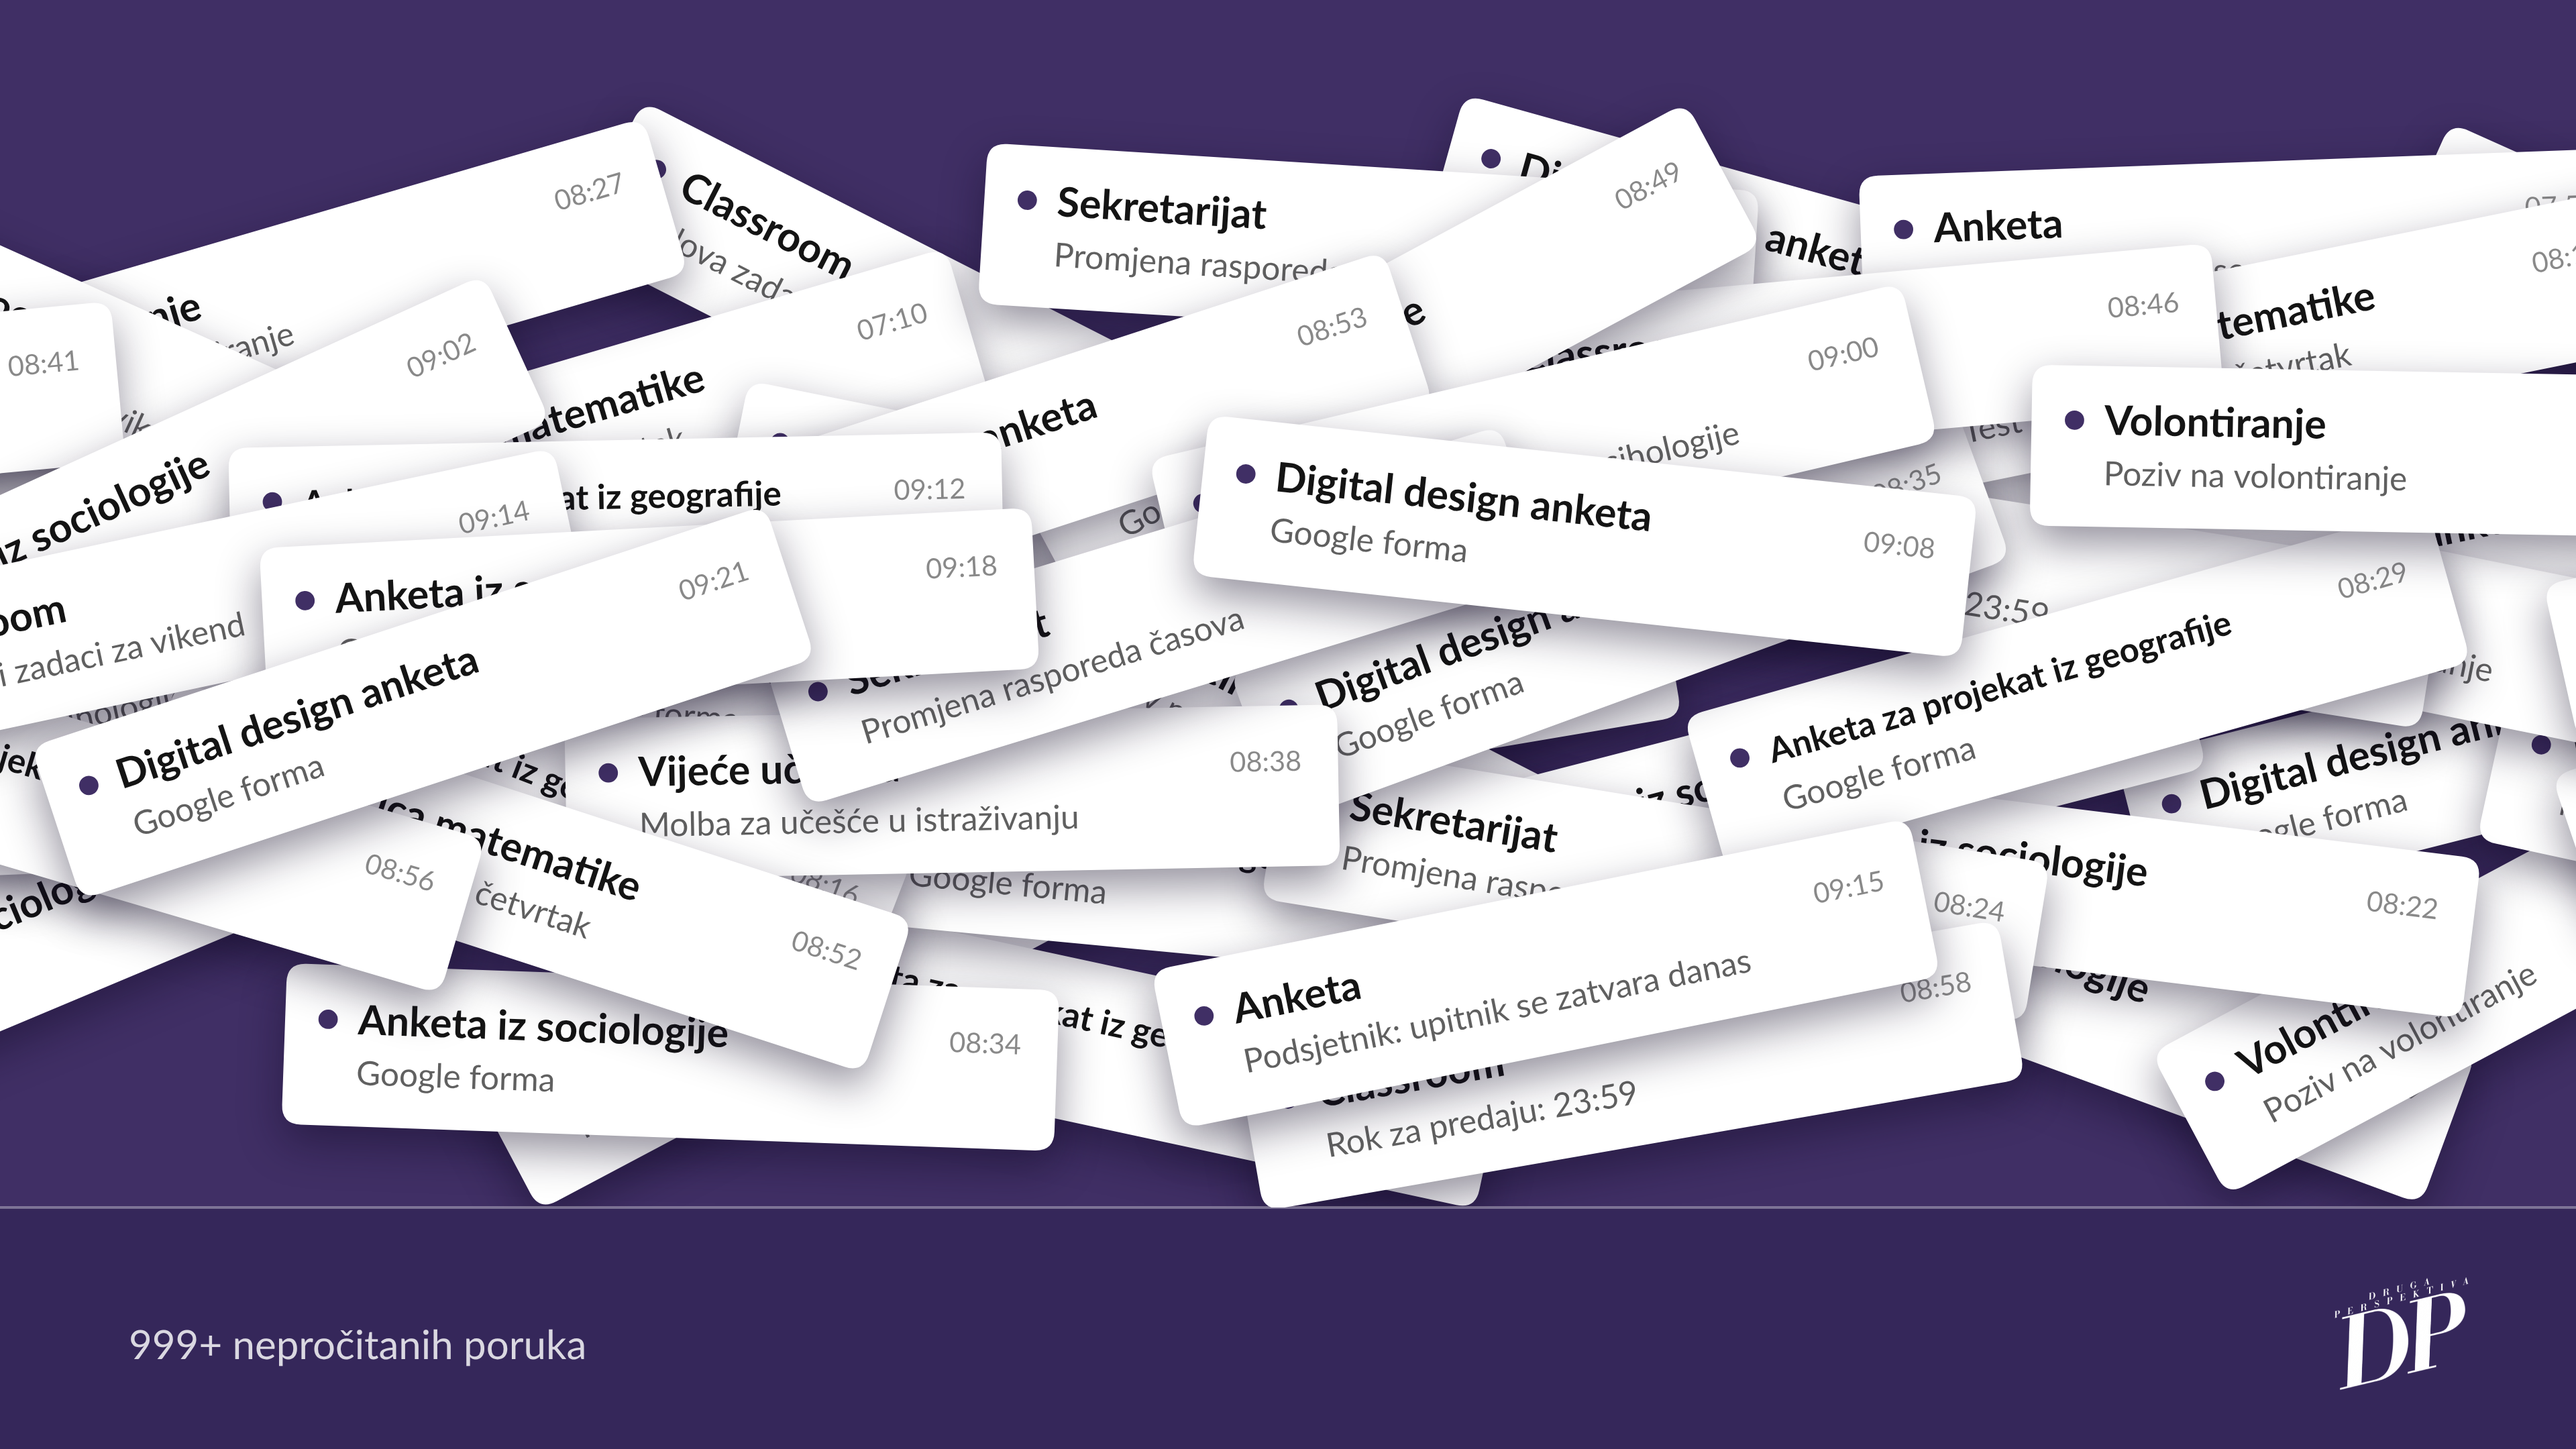
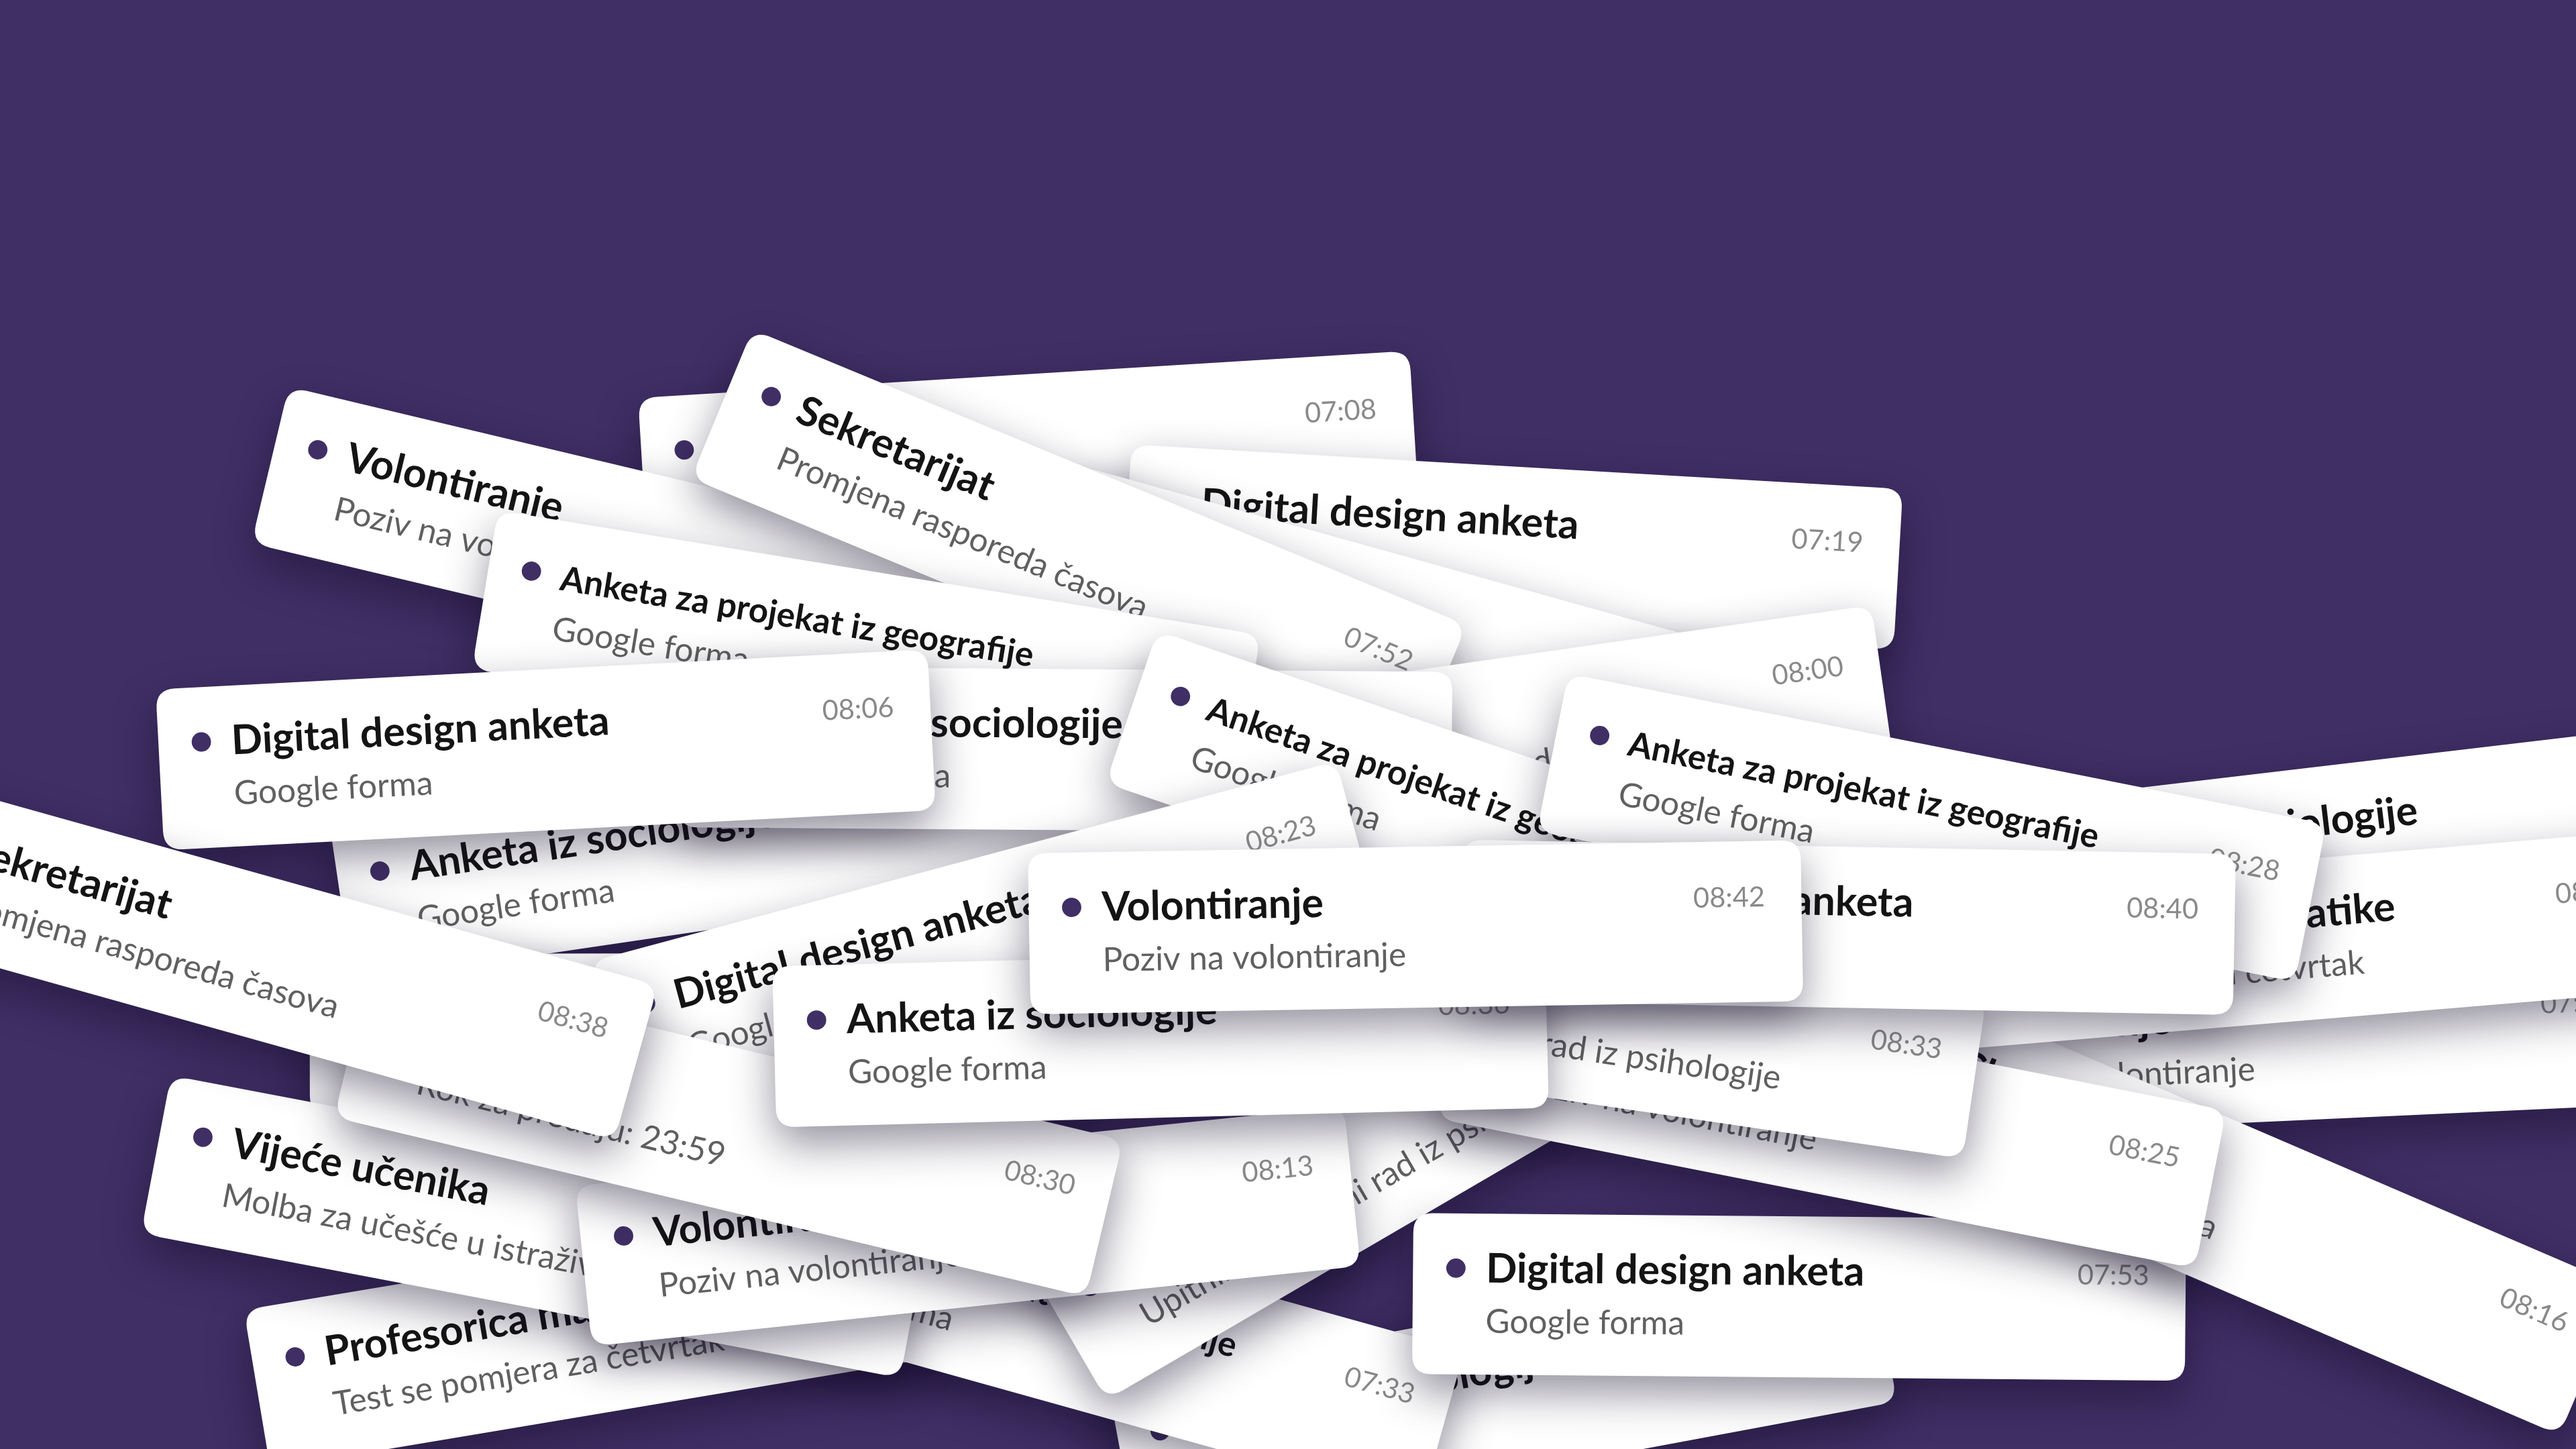
Digitalni haos 16:9: samo gomila mailova, bez podnožja i teksta
Claude-Session: https://claude.ai/code/session_01SB3ebkwCbJ77j8TgDceU8w

diff --git a/promo/email-haos/naslovna-16x9.html b/promo/email-haos/naslovna-16x9.html
@@ -22,8 +22,8 @@ canvas { position: absolute; left: 0; top: 0; width: 1920px; height: 1080px; }
 .naslov { margin-top: 30px; font-size: 100px; font-weight: 700; line-height: 1.03; letter-spacing: -0.022em; }
 .pise { margin-top: 30px; font-size: 40px; line-height: 1.3; color: rgba(255,255,255,.72); }
 .pise b { color: #fff; font-weight: 700; }
-.brojac { position: absolute; left: 96px; bottom: 58px; font-size: 30px; color: rgba(255,255,255,.82); font-variant-numeric: tabular-nums; }
-.logo { position: absolute; right: 80px; bottom: 44px; width: 100px; }
+.brojac { display: none; position: absolute; left: 96px; bottom: 58px; font-size: 30px; color: rgba(255,255,255,.82); font-variant-numeric: tabular-nums; }
+.logo { display: none; position: absolute; right: 80px; bottom: 44px; width: 100px; }
 </style>
 </head>
 <body>
@@ -44,7 +44,7 @@ canvas { position: absolute; left: 0; top: 0; width: 1920px; height: 1080px; }
 	var AUTOR = ''; // npr. 'Ime Prezime'
 	document.getElementById('pise').innerHTML = AUTOR ? 'Piše: <b>' + AUTOR + '</b>' : 'Treba li nam bolja organizacija e-mailova?';
 
-	var W = 1920, H = 1080, FPS = 30, FLOOR = 900, CEIL = 70;
+	var W = 1920, H = 1080, FPS = 30, FLOOR = 1150, CEIL = 150;
 	var dpr = window.devicePixelRatio || 1;
 	var cv = document.getElementById('c'), ctx = cv.getContext('2d');
 	cv.width = W * dpr; cv.height = H * dpr;
@@ -78,7 +78,7 @@ canvas { position: absolute; left: 0; top: 0; width: 1920px; height: 1080px; }
 	// ---- Meka fizika ----
 	// Kartice su pravougaonici koji se blago odguruju oprugom kad se približe (bez tvrdih sudara).
 	// Sudari ih samo guraju, ne okreću: svaka ima svoj mali nagib i lagano se njiše dok se kreće.
-	var CW = 720, CH = 150, R = 18, CX = W / 2, CY = 520;
+	var CW = 720, CH = 150, R = 18, CX = W / 2, CY = 700;
 	var SC = 0.8, PW = CW * SC, PH = CH * SC; // SC: veličina kartica (1 = 720×150)
 	var OVX = 0.56, OVY = 0.62; // koliko se kartice smiju preklopiti prije nego se počnu odgurivati
 	var GAP = 14;            // razmak koji kartice pokušavaju održati
@@ -87,7 +87,7 @@ canvas { position: absolute; left: 0; top: 0; width: 1920px; height: 1080px; }
 	var PULL = 1.1; var DRAG = 2.6;          // otpor "zraka": zbog njega sve pluta
 
 	var spawns = [], t = 0.3, gap = 0.74;
-	while (t < 7.3) { spawns.push(t); t += gap; gap = Math.max(0.045, gap * 0.87); }
+	while (t < 6.6) { spawns.push(t); t += gap; gap = Math.max(0.08, gap * 0.87); }
 
 	var cards = [], made = 0, frame = 0, minute = 7 * 60 + 2;
 
@@ -96,7 +96,7 @@ canvas { position: absolute; left: 0; top: 0; width: 1920px; height: 1080px; }
 		minute += 1 + Math.floor(rnd() * (made > 8 ? 3 : 9));
 		var hh = Math.floor(minute / 60) % 24, mm = minute % 60;
 		var mess = Math.min(1, made / 18); // što ih je više, to je sve nemirnije
-		var nx = CX + (rnd() - 0.5) * (260 + 1500 * mess), ny = CY + (rnd() - 0.5) * (120 + 500 * mess);
+		var nx = CX + (rnd() - 0.5) * (260 + 1100 * mess), ny = CY + (rnd() - 0.5) * (80 + 260 * mess);
 		// trzaj: nova pošta odgurne sve oko sebe i malo ih zakrene
 		cards.forEach(function (c) {
 			var dx = c.x - nx, dy = c.y - ny, d = Math.hypot(dx, dy) || 1;
@@ -129,7 +129,7 @@ canvas { position: absolute; left: 0; top: 0; width: 1920px; height: 1080px; }
 			var c = cards[i];
 			c.age += dt; c.s = grow(c.age);
 			c.fx = (CX - c.x) * PULL * 0.35 - DRAG * c.vx;
-			c.fy = GRAV + ((CEIL + FLOOR) / 2 + 30 - c.y) * PULL - DRAG * c.vy;
+			c.fy = GRAV + (FLOOR - 420 - c.y) * PULL * 1.4 - DRAG * c.vy;
 			var hh2 = (PH / 2 + Math.abs(Math.sin(c.a || 0)) * PW / 2) * c.s; // visina s nagibom
 			var pen = c.y + hh2 - FLOOR; if (pen > 0) c.fy -= K * 2 * pen;
 			var top = CEIL - (c.y - hh2); if (top > 0) c.fy += K * 8 * top;
@@ -220,10 +220,6 @@ canvas { position: absolute; left: 0; top: 0; width: 1920px; height: 1080px; }
 		ctx.fillStyle = '#402f65';
 		ctx.fillRect(0, 0, W, H);
 		cards.forEach(drawCard);
-		ctx.fillStyle = '#35275a';
-		ctx.fillRect(0, FLOOR, W, H - FLOOR);
-		ctx.fillStyle = 'rgba(255,255,255,.34)';
-		ctx.fillRect(0, FLOOR - 1, W, 2);
 	}
 
 	// Kraj: nakon zadnjeg naleta gomila "izdahne": otpor i privlačenje popuste,
